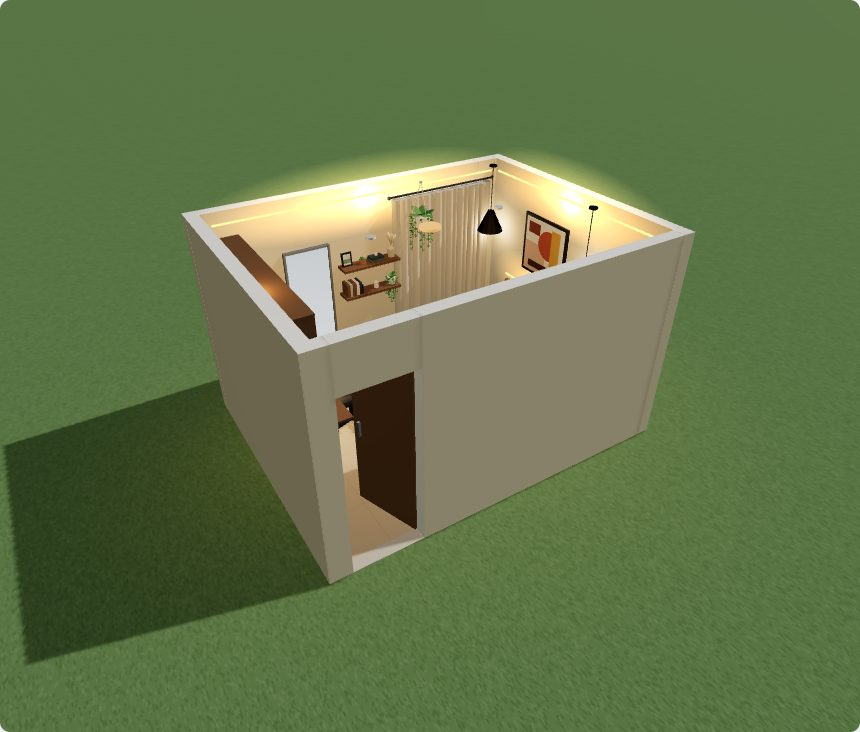
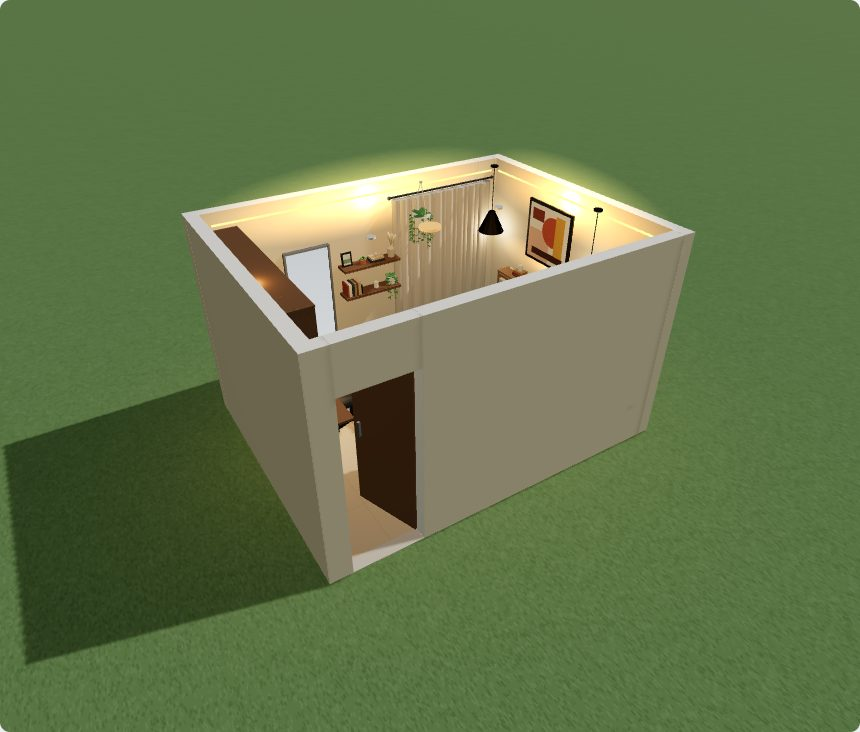
feat: double bed with a headboard carrying a 15 cm shelf (warm glow above it); Brandon Cuarto — that bed instead of the chest at its foot, decor on the shelf, nightstands and pendants spaced for it
Claude-Session: https://claude.ai/code/session_01AFnSiYVaDU1pMPqiY52pPf

diff --git a/src/furniture/meshes.tsx b/src/furniture/meshes.tsx
@@ -99,7 +99,28 @@ const legs = (w: number, d: number, h: number, t: number, c: string, inset = 0.0
     <B key={`leg${i}`} p={[sx * (w / 2 - inset - t / 2), h / 2, sz * (d / 2 - inset - t / 2)]} s={[t, h, t]} c={c} />
   ));
 
-const bed: Builder = ({ w, d, h, c, item }) => {
+/**
+ * Bed; with `item.headShelf` its headboard carries a shelf that deep on top (to put things on), the bed in front of it
+ * and a warm glow washing the wall above the shelf.
+ */
+const bed: Builder = (p) => {
+  const s = p.item?.headShelf;
+  if (!s) return bedCore(p);
+  const { w, d, h } = p;
+  const wood = shade('#b08a63', 0.85);
+  return (
+    <>
+      <B p={[0, h / 2, -d / 2 + 0.01]} s={[w + 0.1, h, 0.02]} c={wood} r={0.6} />
+      {[-1, 1].map((sx) => <B key={sx} p={[sx * (w / 2 + 0.04), h / 2, -d / 2 + (s + 0.06) / 2]} s={[0.02, h, s + 0.06]} c={wood} r={0.6} />)}
+      <RB p={[0, h + 0.015, -d / 2 + (s + 0.06) / 2]} s={[w + 0.12, 0.03, s + 0.06]} rad={0.006} c={wood} r={0.5} />
+      <Neon p={[0, h + 0.034, -d / 2 + 0.025]} s={[w, 0.005, 0.01]} c={'#ffd9a6'} k={1.2} />
+      <Glow p={[0, h + 0.3, -d / 2 + 0.003]} s={[w + 0.5, 0.6]} c={'#ffcf8a'} o={0.45} />
+      <group position={[0, 0, s / 2]}>{bedCore({ ...p, d: d - s })}</group>
+    </>
+  );
+};
+
+const bedCore: Builder = ({ w, d, h, c, item }) => {
   const frame = shade('#b08a63', 0.85);
   const leg = 0.12;
   const base = leg + 0.2;

diff --git a/src/furniture/catalog.ts b/src/furniture/catalog.ts
@@ -54,6 +54,8 @@ export interface CatalogItem {
   dressing?: Dressing;
   /** chests of drawers: a framed mirror standing on top, the chest itself this tall (the rest is the mirror) */
   mirrorAbove?: number;
+  /** beds: the headboard carries a shelf this deep on top (included in the depth) */
+  headShelf?: number;
   /** light fittings: it lights the room in 3D, from this height of the piece (0 bottom … 1 top), warm white */
   light?: number;
   /** ambient light (neon strips, a lit unit): it stays on when the room lights are switched off in 3D */
@@ -81,6 +83,7 @@ export const CATALOG: CatalogItem[] = [
   item('cama-doble', 'Cama doble', 'Dormitorio', 'cama', [1.4, 1.9, 1.0], LINO, { double: true }),
   item('cama-queen', 'Cama queen', 'Dormitorio', 'cama', [1.6, 2.0, 1.05], LINO, { double: true }),
   item('cama-king', 'Cama king', 'Dormitorio', 'cama', [2.0, 2.0, 1.05], LINO, { double: true }),
+  item('cama-doble-repisa', 'Cama doble con espaldar y repisa', 'Dormitorio', 'cama', [1.4, 2.05, 1.15], LINO, { double: true, headShelf: 0.15 }),
   item('cama-sencilla', 'Cama sencilla', 'Dormitorio', 'cama', [1.0, 1.9, 0.95], LINO),
   item('mesa-noche', 'Mesa de noche', 'Dormitorio', 'mesaNoche', [0.45, 0.4, 0.55], ROBLE),
   item('closet', 'Clóset', 'Dormitorio', 'closet', [1.2, 0.6, 2.2], BLANCO),
